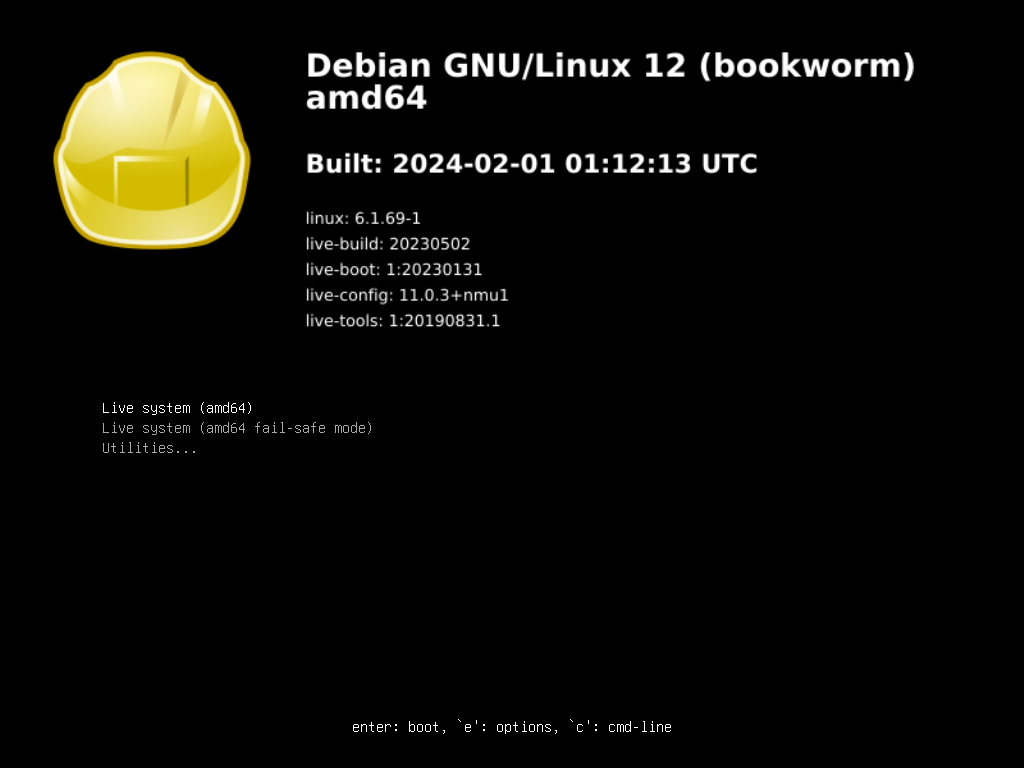
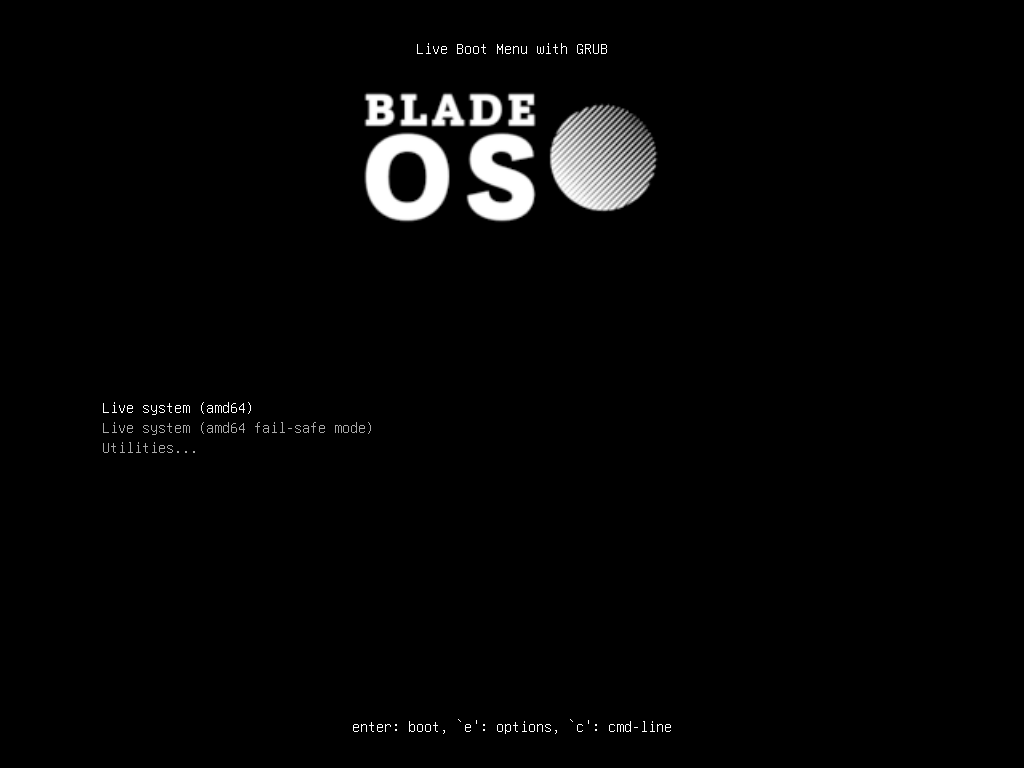
Final beta build

Changed region(s): [[0.2812, 0.0625, 0.9062, 0.4375], [0.0312, 0.0625, 0.25, 0.3438]]

diff --git a/content/download.md b/content/download.md
@@ -9,18 +9,12 @@ fileLink = "content/projects.csv"
 weight = 1
 +++
 
-## Blade OS v24 - blissful (Public preview)
-Download the latest public preview of Blade OS directly from our servers.
+## Blade OS 24 - Blissful (Final Beta)
+Download the final beta of Blade OS.
 
 {{< tip >}} If you run into any problems, please create an [issue](https://github.com/Blade-OS/os/issues/new/choose "Open an issue") on our GitHub page. {{< /tip >}}
 
-### Sources
-{{< button "https://deb.bladeos.xyz/dists/bookworm/iso/blade.iso" "Direct" >}}{{< button "https://github.com/Blade-OS/os/actions/runs/7953411726/artifacts/1255200633" "GitHub" >}}
-### Other resources
-{{< button "https://deb.bladeos.xyz/dists/bookworm/iso/checksum" "Verify download" >}}{{< button "../docs/v24/installing/" "How-to install" >}}
-
-
-## Previous builds
-{{< tip "warning" >}} These builds are not officially supported by the Blade OS Authors. Any issues you create will not be fixed. {{< /tip >}}
-
 {{< button "https://github.com/Blade-OS/os/actions" "Download from GitHub" >}}
+
+### Other resources
+{{< button "../docs/v24/installing/" "How-to install" >}}

diff --git a/content/_index.md b/content/_index.md
@@ -6,7 +6,7 @@ columnTitles = ["Section", "Status", "Author"]
 fileLink = "content/projects.csv"
 +++
 
-{{< tip >}} The Blade OS public preview is out! Check out our downloads to install. {{< /tip >}}
+{{< tip >}} The Blade OS final beta is out! Check out our downloads to install. {{< /tip >}}
 
 {{< block "grid-2" >}}
 {{< column >}}
@@ -21,5 +21,5 @@ A brand new distro based on **Debian** that has everything pre-configured.
 {{< /column >}}
 {{< /block >}}
 
-##### {{< button "https://github.com/Blade-OS/os/actions" "Download" >}}{{< button "docs/" "Documentation" >}}
-*Note: GNOME is the only available desktop at this time. More will come at a later date.*
+##### {{< button "download/" "Download" >}}{{< button "docs/" "Documentation" >}}
+*Blade OS is currently in the final beta. If you decide to try it out, please send us feedback via our GitHub.*
